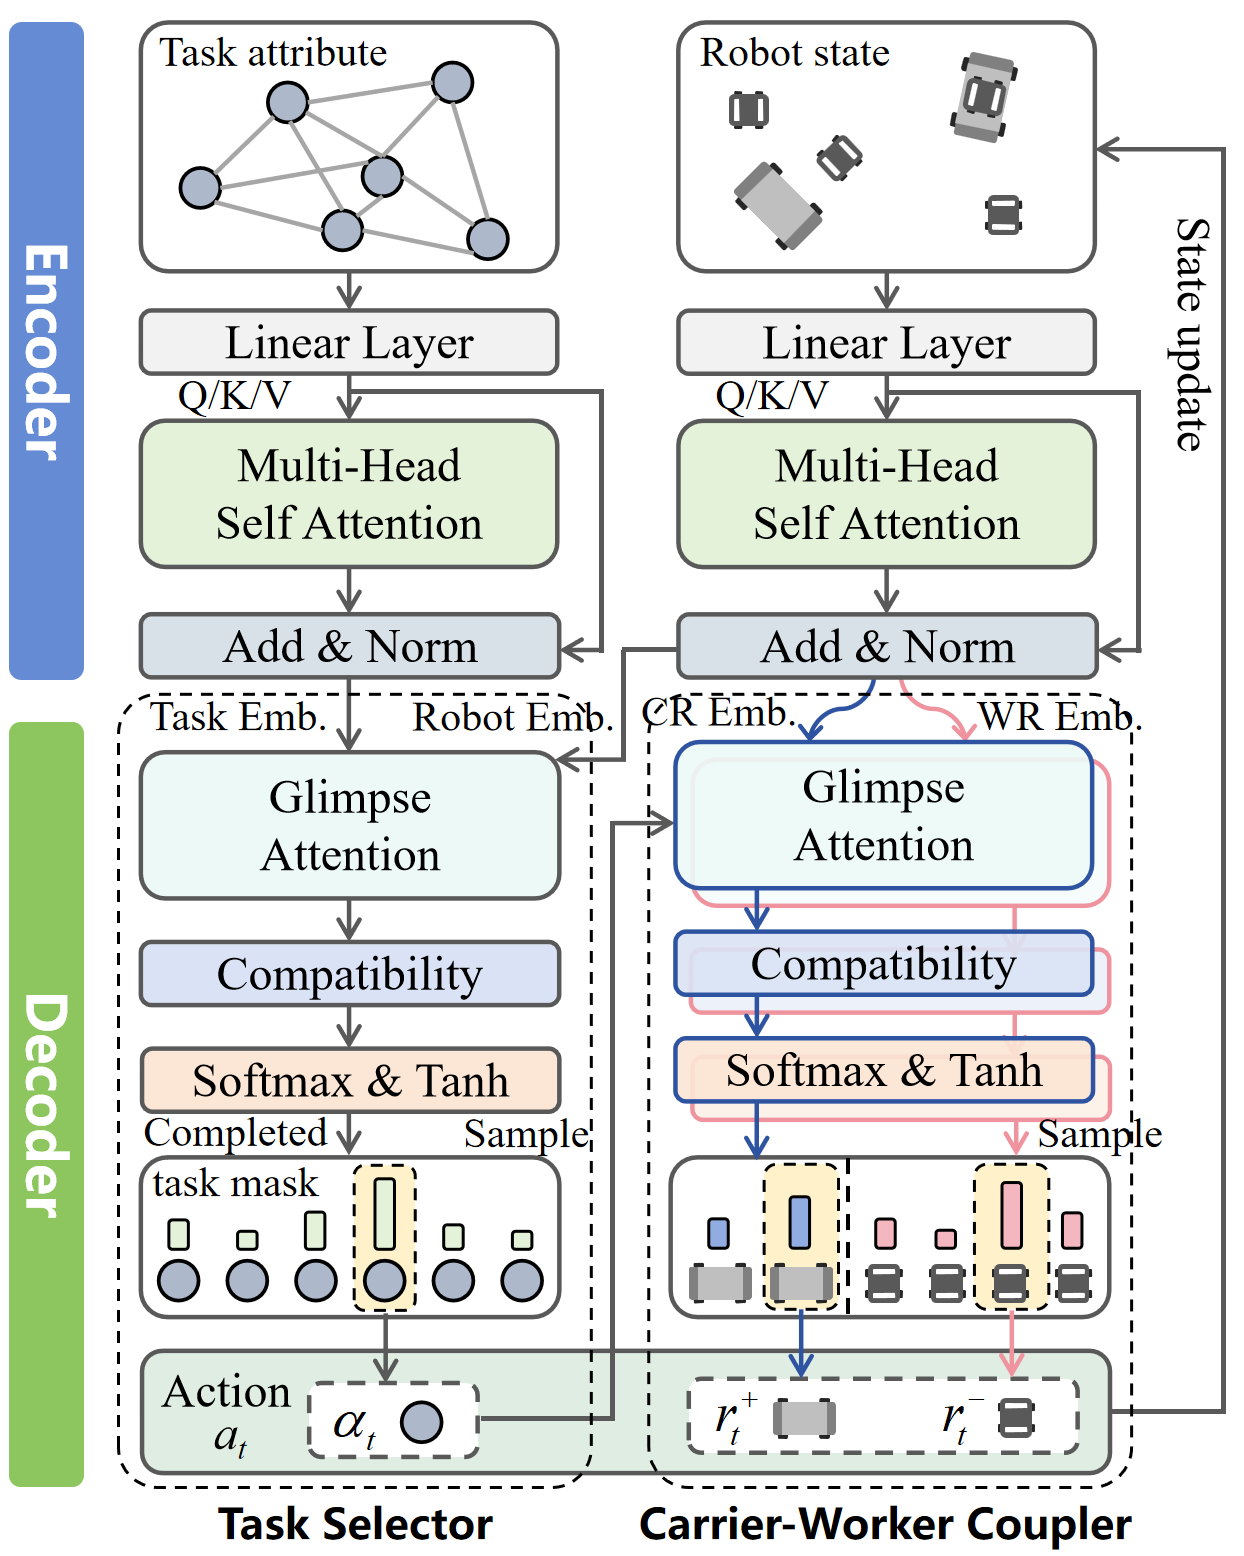
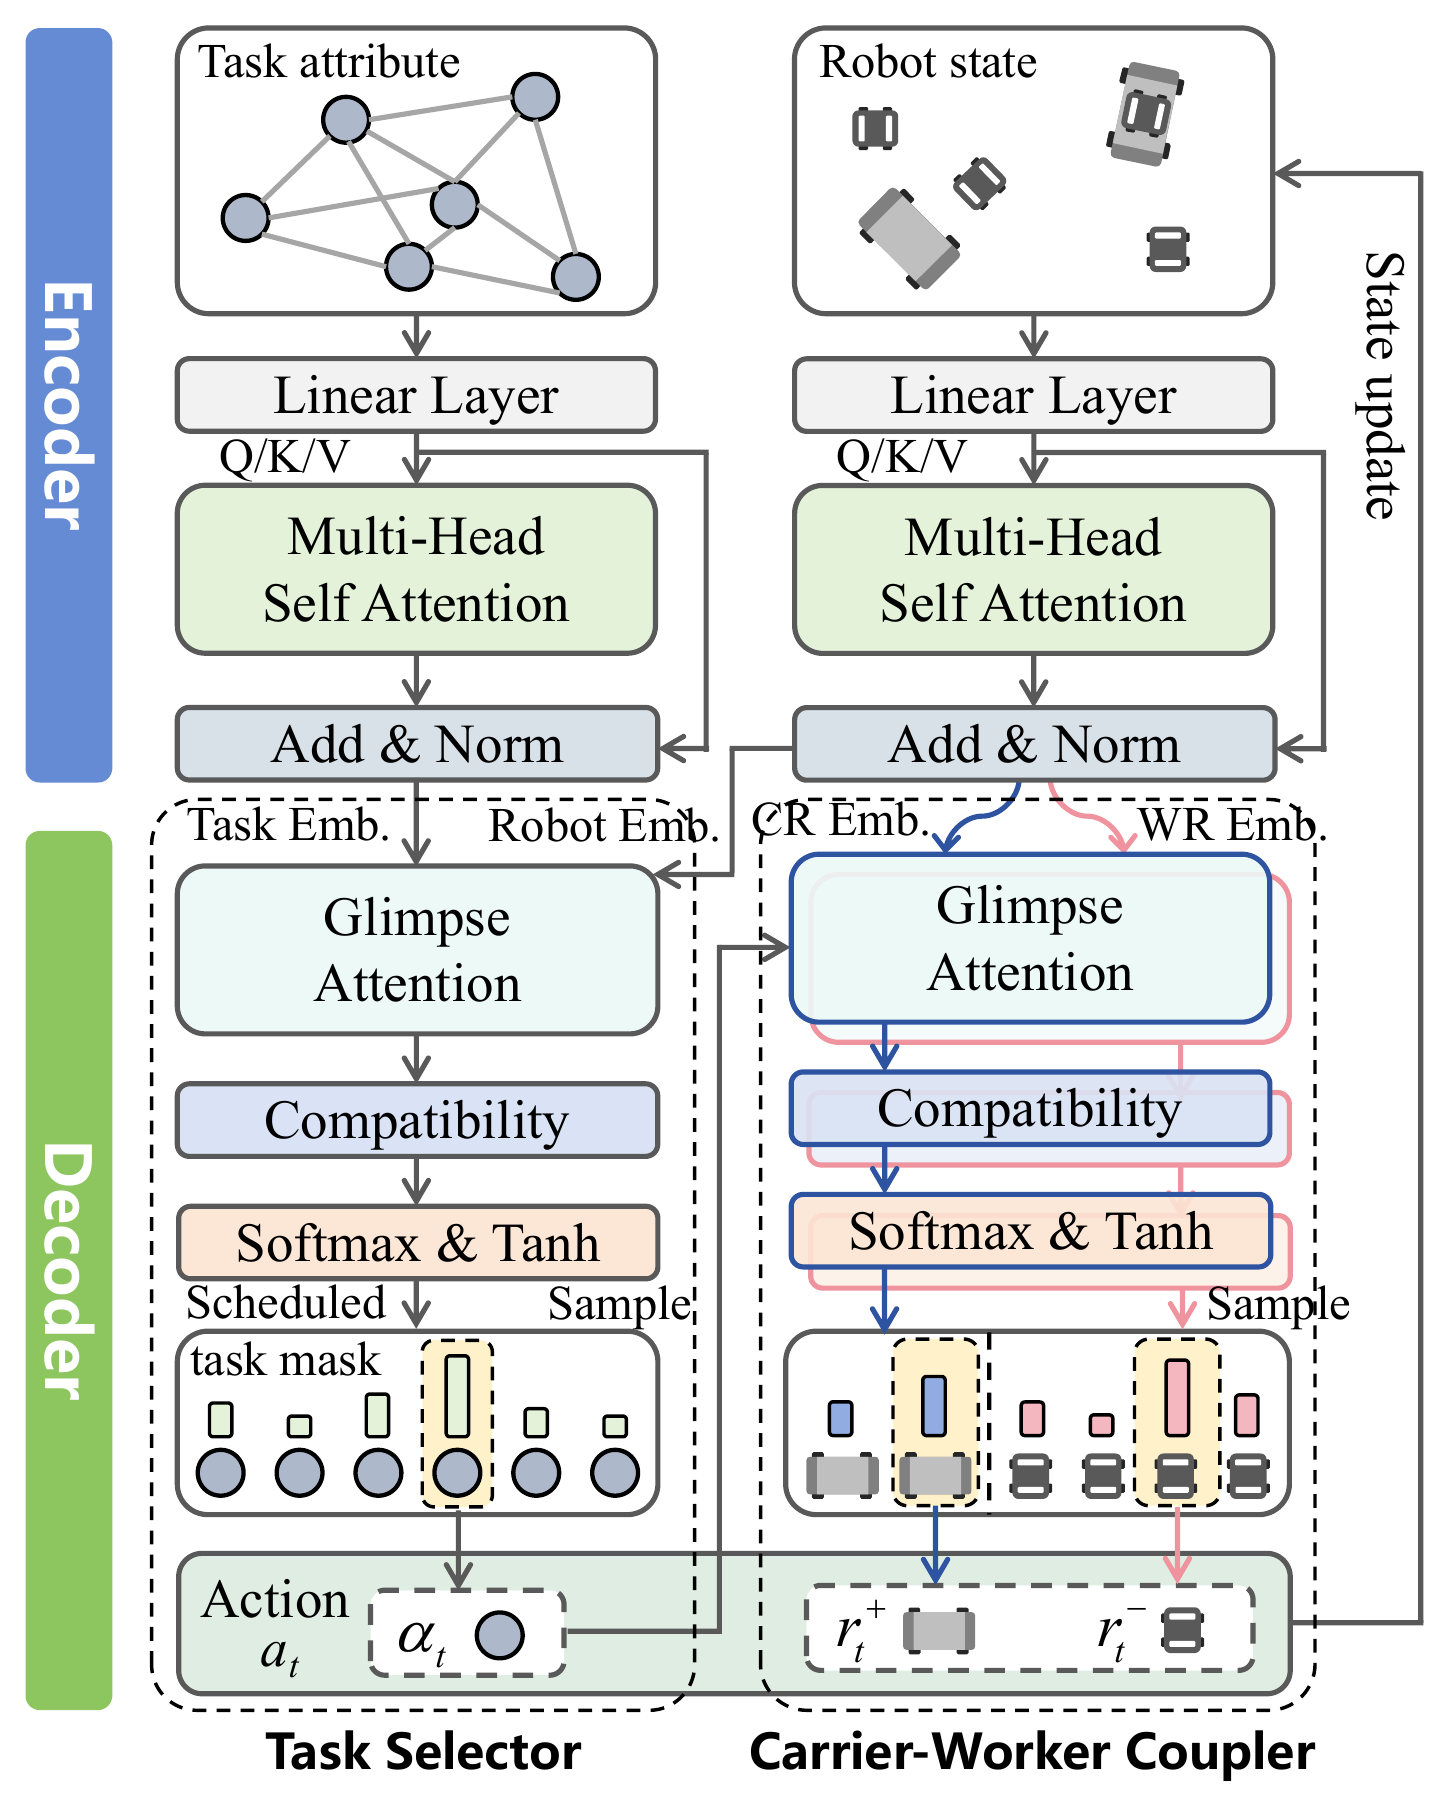
Update architecture figure with scheduled task mask

diff --git a/README.md b/README.md
@@ -83,8 +83,6 @@ MaRS-Net learns a policy over the structured MDP for CCWSP. Each composite actio
   <em>Figure 3. Policy network architecture of MaRS-Net.</em>
 </div>
 
-The diagram's label "Completed task mask" denotes tasks already scheduled during construction, not tasks physically completed at a common execution time.
-
 The framework consists of two main modules:
 
 ### 1. Dual-Stream Encoder
